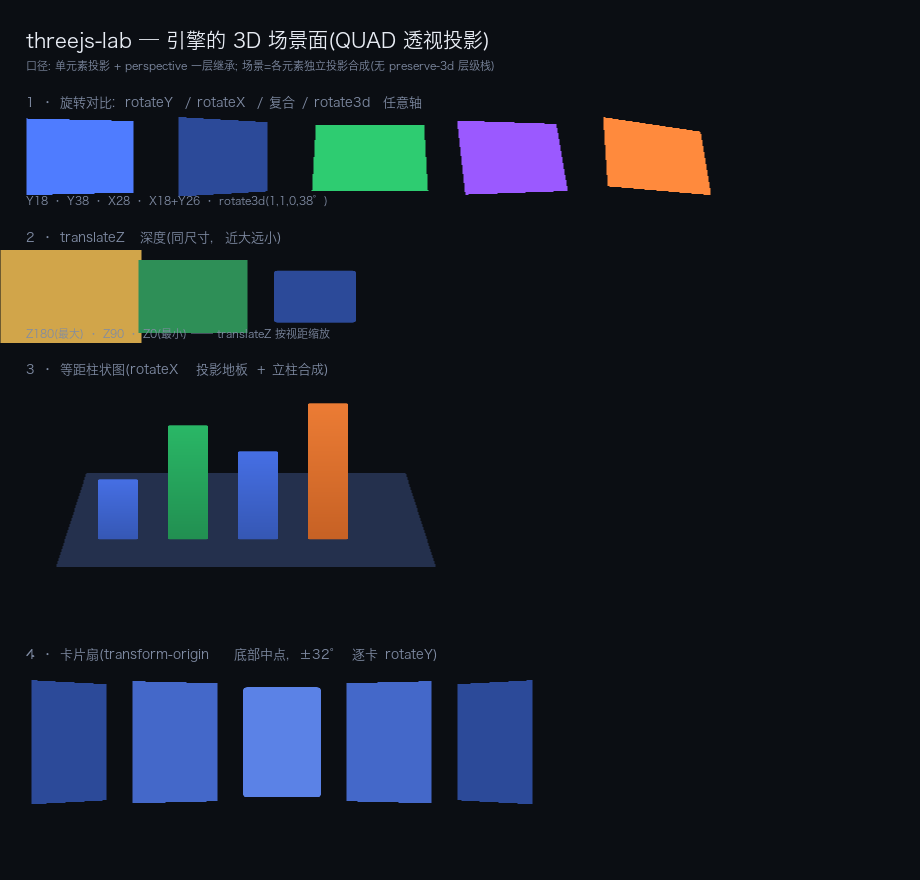
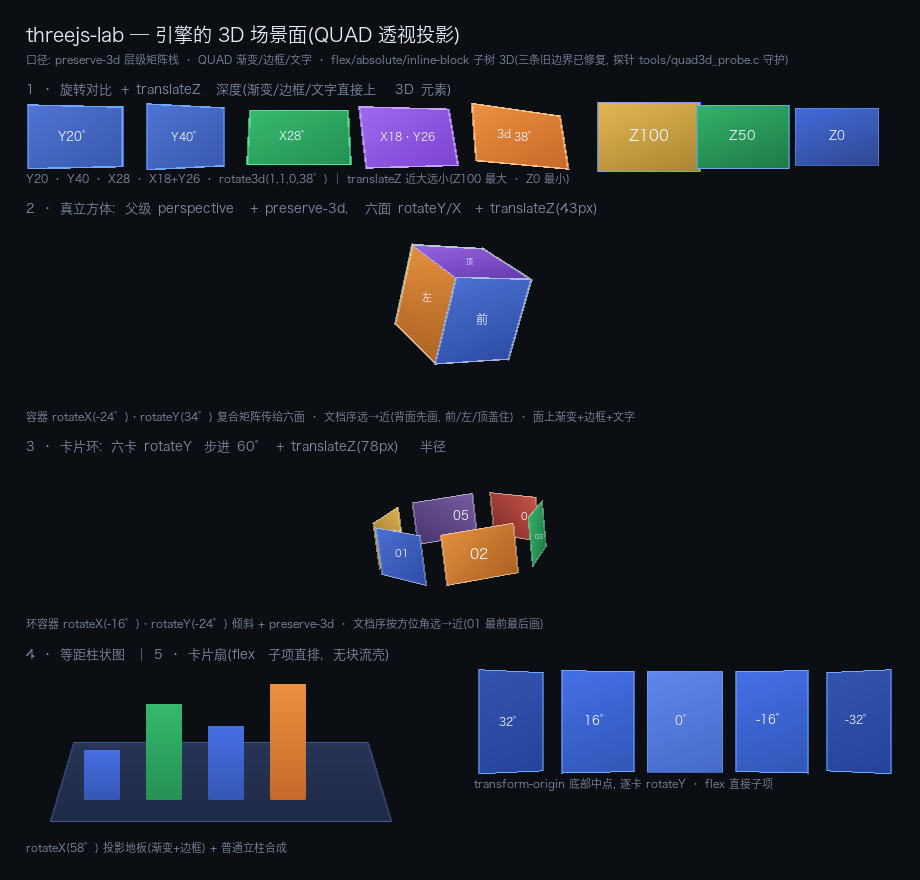
3D: threejs-lab 升级真立方体/卡片环 + 能力清单更新 + 截图重渲

diff --git a/examples/threejs-lab.html b/examples/threejs-lab.html
@@ -5,93 +5,179 @@
 <meta name="hn-window" content="920x880">
 <meta name="hn-title" content="threejs-lab · 3D 场景压测">
 <style>
-  body { background:#0b0e13; color:#e8ecf4; font-size:14; padding:18; }
-  h1 { font-size:20; margin:0 0 4 0; }
-  h2 { font-size:13; color:#7f8ba3; margin:18 0 8 0; letter-spacing:1; }
-  .cap { font-size:11; color:#7f8ba3; }
+  body { background:#0b0e13; color:#e8ecf4; font-size:14; padding:14 18; }
+  h1 { font-size:19; margin:0 0 3 0; }
+  h2 { font-size:13; color:#7f8ba3; margin:12 0 6 0; letter-spacing:1; }
+  .cap { font-size:11; color:#7f8ba3; margin-top:3; }
 
-  /* 引擎 3D 实测口径(本页即为结论):
-     1) QUAD 透视投影按**单元素**计算; 元素自带 perspective 属性时对自己的
-        transform 生效(与 examples/transform3d.html 同一口径)。
-     2) perspective 只对直接子级继承一层; 孙级的 translateZ 无视距会退化 ——
-        多层 3D 场景(preserve-3d)不支持, 场景=各元素独立投影再合成。
-     3) 3D 变换元素内的文字暂不绘制(只有 QUAD 形状), 标签放在变换元素外。 */
+  /* ── 引擎 3D 口径(三条旧边界已修复, 本页即为验收) ──
+     1) preserve-3d 层级矩阵栈: transform-style: preserve-3d 的元素把
+        "自己叠完的"复合 4x4 矩阵传给子级, 父子 transform 逐级复合 ——
+        下面的真立方体与卡片环就是两级复合: 容器 rotateX·rotateY ×
+        各子面 rotateY/X + translateZ(半径)。flat(缺省)元素复位矩阵,
+        把父面片的投影以 2D 仿射摊平给子级(与 CSS 扁平化同语义)。
+     2) QUAD 面片带渐变/边框/文字: 渐变画在元素平面上、随面片一起被
+        投影(等效 CSS 先画再变换); 边框按投影四边形出四条梯形(不再按
+        未变换矩形画歪); 子树文字落在面片的摊平仿射上, 字号随 sqrt|det|
+        缩放 —— 字形本身轴对齐, 不做逐像素透视畸变(简化口径, 如实写明)。
+     3) flex 直接子项 / position:absolute / inline-block 原子盒里的 3D
+        元素与普通块流同一绘制路径(不再静默丢弃): 本页 3D 卡直接做 flex
+        子项, 立方体六面与卡片环全部 absolute —— 没有一层"块流壳"规避。
+     仍属简化(如实写明): 无逐深度排序, 遮挡关系由文档序决定 —— 立方体
+     六面与卡片环按"远 → 近"排列; perspective 声明者的盒中心即消失点。 */
 
-  /* 实测: 3D 变换元素必须在**普通块流**里才绘制(flex/inline-block/absolute
-     里的 3D 元素会被静默丢弃; translateZ 例外)。横向排布用 inline-block
-     格子包块级变换卡 —— 与 transform3d.html 同一口径。 */
-  /* 壳(flex 项, 无变换)负责横向排布; 变换卡在壳内保持块流 */
-  .cell { display:block; margin-right:16; }
-  .hrow { display:flex; gap:16; align-items:center; }
+  /* 3D 元素直接做 flex 子项(修复 #3 的活样例, 无 .cell 壳) */
+  .hrow { display:flex; gap:12; align-items:center; }
 
-  /* ── 1. 旋转对比排 ── */
-  /* 3D 元素用**平色**底(QUAD 路径只填平色, 渐变元素的投影会变全透明)、
-     不带边框(边框按未变换矩形绘制, 会画歪) */
-  .k { display:block; width:112; height:74; border-radius:10;
-       background:#3d5fbf; perspective: 500; }
-  .k1 { transform: rotateY(18deg); background:#4f7cff; }
-  .k2 { transform: rotateY(38deg); background:#2c4a99; }
-  .k3 { transform: rotateX(28deg); background:#2ecc71; }
-  .k4 { transform: rotateX(18deg) rotateY(26deg); background:#9b59ff; }
-  .k5 { transform: rotate3d(1,1,0,38deg); background:#ff8a3d; }
+  /* ── 1. 旋转对比 + translateZ 深度 ──
+     渐变/边框/文字直接上 3D 元素(旧口径: QUAD 只填平色 —— 渐变投影后
+     全透明; 边框按未变换矩形绘制会画歪; 文字不绘制)。 */
+  .k { width:96; height:60; line-height:58px; perspective: 520;
+       background:linear-gradient(150deg,#5b82e6,#2c4a99);
+       border:1.5 solid #6fa8ff; color:#eaf1ff; font-size:12;
+       text-align:center; }
+  .k1 { transform: rotateY(20deg); }
+  .k2 { transform: rotateY(40deg); }
+  .k3 { transform: rotateX(28deg); background:linear-gradient(150deg,#3ecf7a,#1d7a46); border-color:#5fe3a0; }
+  .k4 { transform: rotateX(18deg) rotateY(26deg); background:linear-gradient(150deg,#b07dff,#6a2fbf); border-color:#c9a2ff; }
+  .k5 { transform: rotate3d(1,1,0,38deg); background:linear-gradient(150deg,#ffa64d,#b3531c); border-color:#ffc38a; }
 
-  /* ── 2. translateZ 深度: 同尺寸三卡, 近大远小 ── */
-  .z { display:block; width:90; height:60; border-radius:8;
-       background:#2c4a99; perspective: 500; }
+  .z { width:80; height:56; line-height:54px; perspective: 560;
+       background:linear-gradient(160deg,#4f7cff,#23366b);
+       border:1 solid #6fa8ff; color:#eaf1ff; font-size:12; text-align:center; }
   .z0 { transform: translateZ(0); }
-  .z1 { transform: translateZ(90px); background:#2e8f57; }
-  .z2 { transform: translateZ(180px); background:#d1a54a; }
+  .z1 { transform: translateZ(50px);  background:linear-gradient(160deg,#3ecf7a,#145c33); }
+  .z2 { transform: translateZ(100px); background:linear-gradient(160deg,#ffd166,#8f6a1d); }
 
-  /* ── 3. 等距柱状图: rotateX 投影地板 + 普通立柱合成 ── */
-  .scene { position:relative; height:240; }
-  .floor { display:block; width:380; height:180; margin-left:30;
+  /* ── 2. 真立方体: 父级 perspective + preserve-3d ──
+     立方体容器声明视距与 preserve-3d, 自身 rotateX·rotateY 复合后把
+     矩阵传给六面; 各面 absolute 叠在同一盒位, rotateY/X + translateZ(43px)
+     推到各自方位。六面带渐变 + 边框 + 文字, 文字随面片摊平仿射落位。
+     文档序 = 绘制序(无逐深度排序): 背面三面先画, 可见面(前/左/顶)后画
+     盖住它们 —— 凸体投影下背面被可见面完全覆盖。 */
+  .cstage { position:relative; height:182; }
+  .cube { position:relative; width:86; height:86; margin:34 auto 0;
+          perspective: 640; transform-style: preserve-3d;
+          transform: rotateX(-24deg) rotateY(34deg); }
+  .face { position:absolute; left:0; top:0; width:86; height:86;
+          border:1.5 solid rgba(255,255,255,.55); color:#f2f6ff;
+          font-size:13; line-height:83px; text-align:center; }
+  .f-back  { transform: rotateY(180deg) translateZ(43px); background:linear-gradient(160deg,#2fbf9f,#0f5c4a); }
+  .f-right { transform: rotateY(90deg)  translateZ(43px); background:linear-gradient(160deg,#3ecf7a,#145c33); }
+  .f-bot   { transform: rotateX(-90deg) translateZ(43px); background:linear-gradient(160deg,#e6685c,#7a271f); }
+  .f-left  { transform: rotateY(-90deg) translateZ(43px); background:linear-gradient(160deg,#ffa64d,#8f4a12); }
+  .f-top   { transform: rotateX(90deg)  translateZ(43px); background:linear-gradient(160deg,#b07dff,#4a1f8f); }
+  .f-front { transform: translateZ(43px);                 background:linear-gradient(160deg,#5b82e6,#1d3a8f); }
+
+  /* ── 3. 卡片环: 六卡 rotateY 步进 60° + translateZ(78px) 半径 ──
+     环容器(perspective + preserve-3d + rotateX/Y 倾斜)给出复合矩阵,
+     六卡 absolute 定位在同一盒位后按方位角步进推出半径。
+     文档序远 → 近(方位角 156°→276°→96°→216°→36°→-24°), 无逐深度排序
+     时由页面作者排绘制序。 */
+  .rstage { position:relative; height:152; }
+  .ring { position:relative; width:170; height:96; margin:24 auto 0;
+          perspective: 760; transform-style: preserve-3d;
+          transform: rotateX(-16deg) rotateY(-24deg); }
+  .rc { position:absolute; left:52; top:25; width:66; height:46;
+        border-radius:8; border:1 solid rgba(255,255,255,.5); color:#f2f6ff;
+        font-size:13; line-height:43px; text-align:center;
+        background:linear-gradient(140deg,#4f7cff,#23366b); }
+  .rc4 { transform: rotateY(156deg) translateZ(78px); background:linear-gradient(140deg,#e6685c,#5c1712); }
+  .rc5 { transform: rotateY(216deg) translateZ(78px); background:linear-gradient(140deg,#8a6fb8,#332054); }
+  .rc3 { transform: rotateY(96deg)  translateZ(78px); background:linear-gradient(140deg,#3ecf7a,#145c33); }
+  .rc6 { transform: rotateY(276deg) translateZ(78px); background:linear-gradient(140deg,#ffd166,#6b4e0e); }
+  .rc2 { transform: rotateY(36deg)  translateZ(78px); background:linear-gradient(140deg,#ffa64d,#8f4a12); }
+  .rc1 { transform: rotateY(-24deg) translateZ(78px); background:linear-gradient(140deg,#5b82e6,#1d3a8f); }
+
+  /* ── 4/5. 等距柱状图 + 卡片扇(双栏; 扇卡直接做 flex 子项) ── */
+  .duo { display:flex; gap:28; }
+  .col { width:428; }
+  .scene { position:relative; height:168; }
+  .floor { display:block; width:340; height:150; margin-left:24;
            transform: rotateX(58deg); perspective: 800;
            transform-origin: 50% 100%;
-           background:#24304d; }
+           background:linear-gradient(180deg,#2c3a5e,#1b2440);
+           border:1 solid #44598c; }
   .bar { position:absolute; border-radius:4 4 0 0;
          background:linear-gradient(180deg,#4f7cff,#2c4a99); }
-  .b1 { left:70;  bottom:26; width:44; height:64; }
-  .b2 { left:140; bottom:26; width:44; height:118; background:linear-gradient(180deg,#2ecc71,#1d7a46); }
-  .b3 { left:210; bottom:26; width:44; height:92; }
-  .b4 { left:280; bottom:26; width:44; height:140; background:linear-gradient(180deg,#ff8a3d,#b3531c); }
-
-  /* ── 4. 卡片扇: transform-origin 底部 + 逐卡 rotateY ── */
-  .fanrow { height:140; }
-  .fan { display:block; width:88; height:120; border-radius:10;
-         background:#3d5fbf; perspective: 700; transform-origin: 50% 100%; }
-  .f1 { transform: rotateY(32deg); background:#2c4a99; }
-  .f2 { transform: rotateY(16deg); background:#4468c9; }
-  .f3 { transform: rotateY(0deg); background:#5b82e6; }
-  .f4 { transform: rotateY(-16deg); background:#4468c9; }
-  .f5 { transform: rotateY(-32deg); background:#2c4a99; }
+  .b1 { left:56;  bottom:20; width:40; height:54; }
+  .b2 { left:118; bottom:20; width:40; height:100; background:linear-gradient(180deg,#3ecf7a,#1d7a46); }
+  .b3 { left:180; bottom:20; width:40; height:78; }
+  .b4 { left:242; bottom:20; width:40; height:120; background:linear-gradient(180deg,#ffa64d,#b3531c); }
+  .fanrow { height:104; }
+  .fan { width:82; height:100; line-height:98px; perspective: 700; transform-origin: 50% 100%;
+         background:linear-gradient(160deg,#5b82e6,#2c4a99);
+         border:1 solid #6fa8ff; color:#eaf1ff; font-size:12; text-align:center; }
+  .f1 { transform: rotateY(32deg);  background:linear-gradient(160deg,#3a5cb8,#1d3a8f); }
+  .f2 { transform: rotateY(16deg);  background:linear-gradient(160deg,#4f7cff,#274a9e); }
+  .f3 { transform: rotateY(0deg);   background:linear-gradient(160deg,#6d94ff,#3a5cb8); }
+  .f4 { transform: rotateY(-16deg); background:linear-gradient(160deg,#4f7cff,#274a9e); }
+  .f5 { transform: rotateY(-32deg); background:linear-gradient(160deg,#3a5cb8,#1d3a8f); }
 </style>
 </head><body>
   <h1>threejs-lab — 引擎的 3D 场景面(QUAD 透视投影)</h1>
-  <div class="cap">口径: 单元素投影 + perspective 一层继承; 场景=各元素独立投影合成(无 preserve-3d 层级栈)</div>
+  <div class="cap">口径: preserve-3d 层级矩阵栈 · QUAD 渐变/边框/文字 · flex/absolute/inline-block 子树 3D(三条旧边界已修复, 探针 tools/quad3d_probe.c 守护)</div>
 
-  <h2>1 · 旋转对比: rotateY / rotateX / 复合 / rotate3d 任意轴</h2>
+  <h2>1 · 旋转对比 + translateZ 深度(渐变/边框/文字直接上 3D 元素)</h2>
   <div class="hrow">
-    <div class="cell"><div class="k k1"></div></div><div class="cell"><div class="k k2"></div></div><div class="cell"><div class="k k3"></div></div><div class="cell"><div class="k k4"></div></div><div class="cell"><div class="k k5"></div></div>
+    <div class="k k1">Y20°</div>
+    <div class="k k2">Y40°</div>
+    <div class="k k3">X28°</div>
+    <div class="k k4">X18·Y26</div>
+    <div class="k k5">3d 38°</div>
+    <div class="z z2" style="margin-left:26">Z100</div>
+    <div class="z z1">Z50</div>
+    <div class="z z0">Z0</div>
   </div>
-  <div class="cap">Y18 · Y38 · X28 · X18+Y26 · rotate3d(1,1,0,38°)</div>
+  <div class="cap">Y20 · Y40 · X28 · X18+Y26 · rotate3d(1,1,0,38°) ｜ translateZ 近大远小(Z100 最大 · Z0 最小)</div>
 
-  <h2>2 · translateZ 深度(同尺寸, 近大远小)</h2>
-  <div class="hrow" style="margin-top:20">
-    <div class="cell"><div class="z z2"></div></div><div class="cell"><div class="z z1"></div></div><div class="cell"><div class="z z0"></div></div>
-  </div>
-  <div class="cap">Z180(最大) · Z90 · Z0(最小) —— translateZ 按视距缩放</div>
-
-  <h2>3 · 等距柱状图(rotateX 投影地板 + 立柱合成)</h2>
-  <div class="scene">
-    <div class="floor"></div>
-    <div style="position:relative; height:0">
-      <div class="bar b1" style="position:absolute"></div><div class="bar b2" style="position:absolute"></div>
-      <div class="bar b3" style="position:absolute"></div><div class="bar b4" style="position:absolute"></div>
+  <h2>2 · 真立方体: 父级 perspective + preserve-3d, 六面 rotateY/X + translateZ(43px)</h2>
+  <div class="cstage">
+    <div class="cube">
+      <div class="face f-back" >后</div>
+      <div class="face f-right">右</div>
+      <div class="face f-bot"  >底</div>
+      <div class="face f-left" >左</div>
+      <div class="face f-top"  >顶</div>
+      <div class="face f-front">前</div>
     </div>
   </div>
+  <div class="cap">容器 rotateX(-24°)·rotateY(34°) 复合矩阵传给六面 · 文档序远→近(背面先画, 前/左/顶盖住) · 面上渐变+边框+文字</div>
 
-  <h2>4 · 卡片扇(transform-origin 底部中点, ±32° 逐卡 rotateY)</h2>
-  <div class="fanrow hrow">
-    <div class="cell" style="margin-right:2"><div class="fan f1"></div></div><div class="cell" style="margin-right:2"><div class="fan f2"></div></div><div class="cell" style="margin-right:2"><div class="fan f3"></div></div><div class="cell" style="margin-right:2"><div class="fan f4"></div></div><div class="cell"><div class="fan f5"></div></div>
+  <h2>3 · 卡片环: 六卡 rotateY 步进 60° + translateZ(78px) 半径</h2>
+  <div class="rstage">
+    <div class="ring">
+      <div class="rc rc4">04</div>
+      <div class="rc rc5">05</div>
+      <div class="rc rc3">03</div>
+      <div class="rc rc6">06</div>
+      <div class="rc rc2">02</div>
+      <div class="rc rc1">01</div>
+    </div>
+  </div>
+  <div class="cap">环容器 rotateX(-16°)·rotateY(-24°) 倾斜 + preserve-3d · 文档序按方位角远→近(01 最前最后画)</div>
+
+  <h2>4 · 等距柱状图 ｜ 5 · 卡片扇(flex 子项直排, 无块流壳)</h2>
+  <div class="duo">
+    <div class="col">
+      <div class="scene">
+        <div class="floor"></div>
+        <div style="position:relative; height:0">
+          <div class="bar b1"></div><div class="bar b2"></div>
+          <div class="bar b3"></div><div class="bar b4"></div>
+        </div>
+      </div>
+      <div class="cap">rotateX(58°) 投影地板(渐变+边框) + 普通立柱合成</div>
+    </div>
+    <div class="col">
+      <div class="fanrow hrow">
+        <div class="fan f1">32°</div>
+        <div class="fan f2">16°</div>
+        <div class="fan f3">0°</div>
+        <div class="fan f4">-16°</div>
+        <div class="fan f5">-32°</div>
+      </div>
+      <div class="cap">transform-origin 底部中点, 逐卡 rotateY · flex 直接子项</div>
+    </div>
   </div>
 </body></html>
